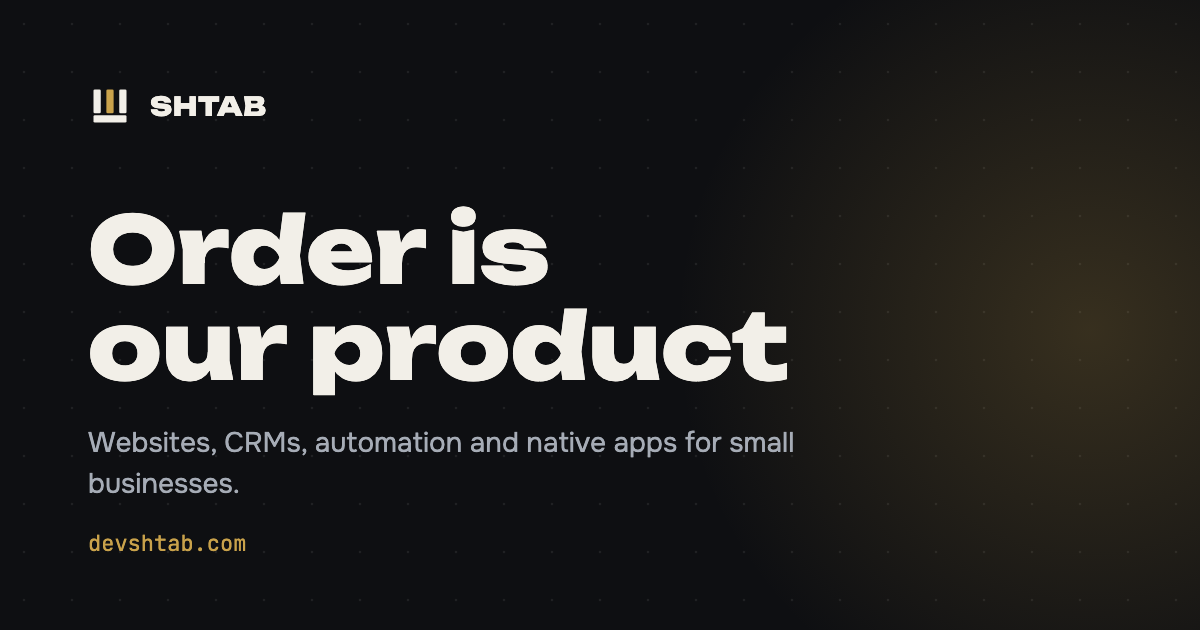
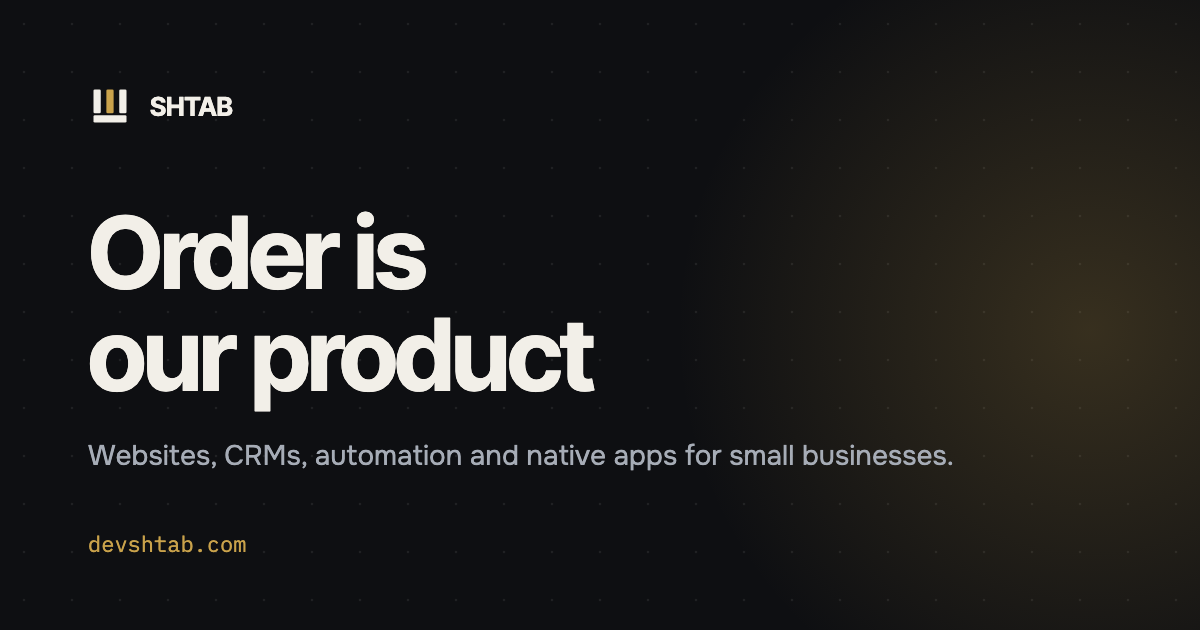
Типографика и визуал по разбору: Inter Tight + Onest + IBM Plex Mono, кейс Znaniye на главной
- Unbounded заменён на Inter Tight с отрицательным трекингом, моно — IBM Plex Mono
- кнопки 8px вместо пилюль, шаги без кружков («01 //»), футер без латунной полосы,
  рамка лампы тише, hover карточек без прыжка, индикатор скролла убран
- Znaniye: настоящие экраны системы (сводка, доска заявок, журнал), кейс на главной
  вместо Lily, Lily остаётся в /work

diff --git a/src/styles/global.css b/src/styles/global.css
@@ -3,9 +3,9 @@
   --ink:#0E0F12; --ink2:#131519; --graphite:#23262B; --line:#2A2D33;
   --ivory:#F2EFE8; --steel:#A6ACB6; --dim:#7B818B; --brass:#C9A24B; --brass-2:#D8B25C;
   --ok:#8FB07A; --new:#8FA3C7; --err:#D98B7A;
-  --font-display:"Unbounded","Onest",system-ui,sans-serif;
+  --font-display:"Inter Tight","Onest",system-ui,sans-serif;
   --font-body:"Onest",system-ui,sans-serif;
-  --font-mono:"JetBrains Mono",ui-monospace,monospace;
+  --font-mono:"IBM Plex Mono",ui-monospace,monospace;
   --z-nav:100;
   --gutter:32px;
   --container:clamp(1160px,64vw,1360px);
@@ -32,12 +32,12 @@ img{display:block;max-width:100%;height:auto}
 main,header,footer{position:relative;z-index:1}
 
 /* ---------- Type ---------- */
-.display{font-family:var(--font-display);font-weight:800;letter-spacing:.005em;line-height:1.08;text-wrap:balance}
+.display{font-family:var(--font-display);font-weight:700;letter-spacing:-.03em;line-height:1.04;text-wrap:balance}
 .section-title{
   font-family:var(--font-display);font-weight:700;
-  font-size:clamp(1.8rem,3.6vw,2.8rem);letter-spacing:.005em;text-wrap:balance;
+  font-size:clamp(1.8rem,3.2vw,2.6rem);letter-spacing:-.025em;line-height:1.12;text-wrap:balance;
 }
-.kicker{font-family:var(--font-mono);font-size:13px;color:var(--brass);letter-spacing:.08em;text-transform:uppercase}
+.kicker{font-family:var(--font-mono);font-size:12px;font-weight:500;color:var(--brass);letter-spacing:.12em;text-transform:uppercase}
 .lead{color:var(--steel);font-size:clamp(17px,2vw,20px);text-wrap:pretty}
 
 /* ---------- Nav ---------- */
@@ -48,7 +48,7 @@ main,header,footer{position:relative;z-index:1}
 .nav.scrolled,.nav.open{background:rgba(14,15,18,.92);border-bottom-color:var(--line);backdrop-filter:blur(10px)}
 .nav-inner{display:flex;justify-content:space-between;align-items:center}
 .nav-logo{display:flex;align-items:center;gap:12px;color:var(--ivory)}
-.nav-logo span{font-family:var(--font-display);font-weight:800;font-size:17px;letter-spacing:.02em}
+.nav-logo span{font-family:var(--font-display);font-weight:700;font-size:17px;letter-spacing:-.01em}
 .nav-logo:hover{text-decoration:none}
 .nav-links{display:flex;align-items:center;gap:clamp(16px,3vw,36px)}
 .nav-links a{color:var(--steel);font-size:15px;font-weight:500;transition:color .2s ease;position:relative}
@@ -57,7 +57,7 @@ main,header,footer{position:relative;z-index:1}
 .nav-links a[aria-current="page"]:not(.nav-cta)::after{content:"";position:absolute;left:0;right:0;bottom:-8px;height:1px;background:var(--brass)}
 .nav-cta{
   color:var(--ink)!important;background:var(--brass);
-  padding:9px 18px;border-radius:999px;font-weight:600;
+  padding:9px 18px;border-radius:8px;font-weight:600;
   transition:transform .16s var(--ease-out),background .2s ease;
 }
 .nav-burger{display:none;width:44px;height:44px;border:0;background:none;cursor:pointer;color:var(--ivory);margin-right:-10px}
@@ -68,7 +68,7 @@ main,header,footer{position:relative;z-index:1}
 
 /* ---------- Buttons ---------- */
 .btn{
-  display:inline-block;padding:14px 28px;border-radius:999px;font-weight:600;font-size:16px;
+  display:inline-block;padding:14px 28px;border-radius:8px;font-weight:600;font-size:16px;
   border:0;cursor:pointer;font-family:inherit;line-height:1.3;
   transition:transform .16s var(--ease-out),background .2s ease,border-color .2s ease;
 }
@@ -95,25 +95,22 @@ main,header,footer{position:relative;z-index:1}
   padding:120px var(--gutter) 80px;position:relative;
 }
 .hero-mark{margin-bottom:40px}
-.hero-title{font-size:clamp(2rem,6.5vw,5.25rem)}
+.hero-title{font-size:clamp(2.4rem,6vw,4.8rem)}
 .hero-title .w{display:inline-block} /* слова для раздельного появления */
 .hero-sub{margin-top:28px;max-width:62ch;text-wrap:balance}
 .hero-actions{margin-top:44px;display:flex;gap:16px;flex-wrap:wrap;justify-content:center}
-.hero-scroll{position:absolute;bottom:32px;left:50%;transform:translateX(-50%);width:1px;height:56px;background:var(--line);overflow:hidden}
-.hero-scroll span{display:block;width:1px;height:20px;background:var(--brass);animation:drip 2s var(--ease-out) infinite}
-@keyframes drip{from{transform:translateY(-24px)}to{transform:translateY(64px)}}
 
 /* page hero (inner pages) */
 .page-hero{padding-top:160px;padding-bottom:56px}
 .page-hero .kicker{margin-bottom:18px;display:block}
-.page-hero h1{font-size:clamp(2rem,4.8vw,3.6rem);max-width:18ch}
+.page-hero h1{font-size:clamp(2rem,4.4vw,3.4rem);max-width:20ch}
 .page-hero .lead{margin-top:24px;max-width:56ch}
 
 /* ---------- Facts ---------- */
 .strip{border-top:1px solid var(--line);border-bottom:1px solid var(--line);background:var(--ink2)}
 .strip-inner{padding-top:56px;padding-bottom:56px;display:grid;grid-template-columns:repeat(auto-fit,minmax(220px,1fr));gap:40px 48px}
 .fact{display:flex;flex-direction:column;gap:8px}
-.fact-num{font-family:var(--font-mono);font-size:clamp(2.4rem,4vw,3.4rem);color:var(--brass);font-variant-numeric:tabular-nums;line-height:1}
+.fact-num{font-family:var(--font-mono);font-size:clamp(2.2rem,3.6vw,3.2rem);color:var(--brass);font-variant-numeric:tabular-nums;line-height:1;letter-spacing:-.02em}
 .fact-num .unit{font-size:.45em;color:var(--steel);margin-left:6px}
 .fact-label{color:var(--steel);font-size:15px;max-width:26ch;text-wrap:pretty}
 
@@ -129,12 +126,12 @@ main,header,footer{position:relative;z-index:1}
 .case-card:hover{text-decoration:none}
 .case-card .cover{aspect-ratio:16/10;overflow:hidden;background:var(--ink);border-bottom:1px solid var(--line)}
 .work-grid .case-card:first-child .cover{aspect-ratio:21/9}
-.case-card .cover img{width:100%;height:100%;object-fit:cover;object-position:top;transition:transform .9s var(--ease-out)}
-.case-card .cover.phone{display:flex;justify-content:center;align-items:flex-end;padding:40px 0 0;background:radial-gradient(60% 80% at 50% 100%,rgba(143,163,122,.18),transparent 70%),var(--ink)}
+.case-card .cover img{width:100%;height:100%;object-fit:cover;object-position:top;transition:transform .8s var(--ease-out)}
+.case-card .cover.phone{display:flex;justify-content:center;align-items:flex-end;padding:40px 0 0;background:radial-gradient(60% 80% at 50% 100%,color-mix(in srgb,var(--accent) 12%,transparent),transparent 70%),var(--ink)}
 .case-card .cover.phone img{width:min(42%,300px);height:auto;border-radius:24px 24px 0 0;border:1px solid var(--line);border-bottom:0;object-fit:unset}
-.case-card:hover .cover img{transform:translateY(-10px) scale(1.02)}
+.case-card:hover .cover img{transform:scale(1.025)}
 .case-card .body{padding:28px 32px 32px;display:flex;flex-direction:column;gap:12px}
-.case-card h3{font-family:var(--font-display);font-weight:700;font-size:clamp(1.15rem,1.6vw,1.5rem);line-height:1.25;letter-spacing:.005em;text-wrap:balance}
+.case-card h3{font-family:var(--font-display);font-weight:600;font-size:clamp(1.2rem,1.5vw,1.45rem);line-height:1.22;letter-spacing:-.015em;text-wrap:balance}
 .case-card p{color:var(--steel);font-size:15.5px;text-wrap:pretty;max-width:60ch}
 .case-card .delta{display:flex;gap:10px;align-items:baseline;font-family:var(--font-mono);font-size:12.5px;color:var(--dim);margin-top:auto;padding-top:10px;flex-wrap:wrap}
 .case-card .delta s{text-decoration-color:rgba(123,129,139,.8)}
@@ -142,35 +139,35 @@ main,header,footer{position:relative;z-index:1}
 
 /* ---------- Work: case page ---------- */
 .case-hero{padding-top:150px;padding-bottom:48px}
-.case-hero h1{font-size:clamp(2rem,4.8vw,3.8rem);max-width:20ch}
+.case-hero h1{font-size:clamp(2rem,4.4vw,3.6rem);max-width:22ch}
 .case-hero .delta{margin-top:28px;display:flex;gap:12px;align-items:baseline;font-family:var(--font-mono);font-size:14px;color:var(--dim);flex-wrap:wrap}
 .case-hero .delta s{text-decoration-color:rgba(123,129,139,.8)}
 .case-hero .delta span,.case-hero .delta b{color:var(--brass);font-weight:400}
 .case-cover{border-radius:18px;overflow:hidden;border:1px solid var(--line);background:var(--ink2);margin-top:48px}
 .case-cover img{width:100%;aspect-ratio:21/9;object-fit:cover;object-position:top}
-.case-cover.phone img{aspect-ratio:21/9;object-fit:contain;padding:48px 0 0;object-position:center bottom;background:radial-gradient(50% 70% at 50% 100%,rgba(143,163,122,.2),transparent 70%)}
+.case-cover.phone img{aspect-ratio:21/9;object-fit:contain;padding:48px 0 0;object-position:center bottom;background:radial-gradient(50% 70% at 50% 100%,rgba(201,162,75,.08),transparent 70%)}
 .case-metrics{display:grid;grid-template-columns:repeat(auto-fit,minmax(200px,1fr));gap:32px;padding:48px 0;border-top:1px solid var(--line);border-bottom:1px solid var(--line);margin-top:56px}
 .case-layout{display:grid;grid-template-columns:minmax(0,1fr) 280px;gap:clamp(40px,6vw,96px);padding-top:72px;padding-bottom:40px;align-items:start}
 .case-meta{position:sticky;top:110px;display:flex;flex-direction:column;gap:28px;font-size:14.5px}
 .case-meta dt{font-family:var(--font-mono);font-size:12px;letter-spacing:.08em;text-transform:uppercase;color:var(--dim);margin-bottom:8px}
 .case-meta dd{color:var(--steel)}
 .case-meta .tags{display:flex;flex-wrap:wrap;gap:8px}
-.case-meta .tags span{border:1px solid var(--line);border-radius:999px;padding:4px 11px;font-size:13px;color:var(--steel)}
+.case-meta .tags span{border:1px solid var(--line);border-radius:6px;padding:4px 10px;font-size:13px;color:var(--steel)}
 .case-meta .nda{color:var(--dim);font-size:13.5px;border-left:1px solid var(--brass);padding-left:14px}
-.prose h2{font-family:var(--font-display);font-weight:700;font-size:clamp(1.3rem,2.2vw,1.7rem);letter-spacing:.005em;margin:48px 0 18px;text-wrap:balance}
+.prose h2{font-family:var(--font-display);font-weight:600;font-size:clamp(1.3rem,2vw,1.6rem);letter-spacing:-.02em;margin:48px 0 18px;text-wrap:balance}
 .prose h2:first-child{margin-top:0}
 .prose p{color:var(--steel);max-width:62ch;text-wrap:pretty;margin-bottom:18px}
 .prose strong{color:var(--ivory);font-weight:600}
 .prose ul{margin:0 0 18px 20px;color:var(--steel)}
 .screens{display:grid;grid-template-columns:1fr 1fr;gap:24px;padding-top:40px;padding-bottom:96px}
 .screens figure{border-radius:16px;overflow:hidden;border:1px solid var(--line);background:var(--ink2)}
-.screens figure.phone{background:radial-gradient(60% 70% at 50% 100%,rgba(143,163,122,.16),transparent 70%),var(--ink2);padding:40px 40px 0;display:flex;justify-content:center}
+.screens figure.phone{background:radial-gradient(60% 70% at 50% 100%,rgba(201,162,75,.07),transparent 70%),var(--ink2);padding:40px 40px 0;display:flex;justify-content:center}
 .screens figure.phone img{width:min(100%,280px);border-radius:24px 24px 0 0;border:1px solid var(--line);border-bottom:0}
 .screens.phones{grid-template-columns:repeat(3,1fr)}
 .case-next{border-top:1px solid var(--line);padding-top:72px;padding-bottom:96px}
 .case-next .kicker{display:block;margin-bottom:14px}
 .case-next a{color:var(--ivory)}
-.case-next h2{font-size:clamp(1.6rem,3.4vw,2.6rem);max-width:22ch}
+.case-next h2{font-size:clamp(1.6rem,3.2vw,2.5rem);max-width:24ch}
 
 /* ---------- Services (pinned scroll) ---------- */
 .services{position:relative}
@@ -188,8 +185,8 @@ main,header,footer{position:relative;z-index:1}
   flex:0 0 clamp(340px,32vw,480px);min-height:380px;background:var(--ink2);display:flex;flex-direction:column;
   border:1px solid var(--line);border-radius:18px;padding:40px 40px 44px;transform-origin:left center;
 }
-.service-num{font-family:var(--font-mono);font-size:13px;color:var(--brass);letter-spacing:.1em}
-.service h3{font-family:var(--font-display);font-weight:700;font-size:clamp(1.35rem,1.6vw,1.6rem);margin:18px 0 14px;letter-spacing:.005em}
+.service-num{font-family:var(--font-mono);font-size:12px;font-weight:500;color:var(--brass);letter-spacing:.12em}
+.service h3{font-family:var(--font-display);font-weight:600;font-size:clamp(1.3rem,1.5vw,1.5rem);margin:18px 0 14px;letter-spacing:-.02em}
 .service p{color:var(--steel);font-size:15.5px;text-wrap:pretty}
 .service ul{list-style:none;margin-top:auto;padding-top:24px;border-top:1px solid var(--line);display:flex;flex-direction:column;gap:8px}
 .service li{font-size:14px;color:var(--steel);padding-left:18px;position:relative}
@@ -205,8 +202,8 @@ main,header,footer{position:relative;z-index:1}
 /* services page: packages */
 .packages{display:grid;grid-template-columns:repeat(auto-fit,minmax(300px,1fr));gap:24px;padding-top:40px;padding-bottom:96px}
 .package{background:var(--ink2);border:1px solid var(--line);border-radius:18px;padding:36px 36px 40px;display:flex;flex-direction:column;gap:14px}
-.package h3{font-family:var(--font-display);font-weight:700;font-size:1.35rem;letter-spacing:.005em}
-.package .term{font-family:var(--font-mono);font-size:13px;color:var(--brass)}
+.package h3{font-family:var(--font-display);font-weight:600;font-size:1.35rem;letter-spacing:-.02em}
+.package .term{font-family:var(--font-mono);font-size:12px;font-weight:500;color:var(--brass);letter-spacing:.06em}
 .package p{color:var(--steel);font-size:15.5px;text-wrap:pretty}
 .package ul{list-style:none;display:flex;flex-direction:column;gap:8px;padding-top:18px;border-top:1px solid var(--line);margin-top:auto}
 .package li{font-size:14.5px;color:var(--steel);padding-left:18px;position:relative}
@@ -217,23 +214,24 @@ main,header,footer{position:relative;z-index:1}
 .process .section-title{margin-bottom:64px}
 .steps{list-style:none;display:grid;grid-template-columns:repeat(auto-fit,minmax(240px,1fr));gap:0;margin-left:-29px}
 .step{padding:8px 32px 8px 28px;border-left:1px solid var(--line)}
-.step-num{display:inline-flex;width:34px;height:34px;border-radius:50%;border:1px solid var(--brass);color:var(--brass);align-items:center;justify-content:center;font-family:var(--font-mono);font-size:14px;margin-bottom:20px}
-.step h3{font-family:var(--font-display);font-weight:700;font-size:1.1rem;margin-bottom:12px;letter-spacing:.005em}
+.step-num{display:block;color:var(--brass);font-family:var(--font-mono);font-size:12px;font-weight:500;letter-spacing:.12em;margin-bottom:16px}
+.step-num::after{content:" //";color:var(--dim)}
+.step h3{font-family:var(--font-display);font-weight:600;font-size:1.15rem;margin-bottom:12px;letter-spacing:-.015em}
 .step p{color:var(--steel);font-size:15px;text-wrap:pretty}
 
 /* ---------- About ---------- */
 .about-grid{display:grid;grid-template-columns:1fr 1fr;gap:clamp(40px,6vw,96px);padding-top:56px;padding-bottom:96px;align-items:start}
 .principles{list-style:none;display:flex;flex-direction:column}
 .principles li{padding:24px 0;border-top:1px solid var(--line)}
-.principles h3{font-family:var(--font-display);font-weight:700;font-size:1.1rem;margin-bottom:8px;letter-spacing:.005em}
+.principles h3{font-family:var(--font-display);font-weight:600;font-size:1.15rem;margin-bottom:8px;letter-spacing:-.015em}
 .principles p{color:var(--steel);font-size:15.5px;text-wrap:pretty}
 .stack-cloud{display:flex;flex-wrap:wrap;gap:10px;margin-top:24px}
-.stack-cloud span{border:1px solid var(--line);border-radius:999px;padding:6px 14px;font-size:14px;color:var(--steel)}
+.stack-cloud span{border:1px solid var(--line);border-radius:6px;padding:6px 12px;font-size:14px;color:var(--steel)}
 
 /* ---------- CTA + lead form ---------- */
 .cta{padding:140px 0;border-top:1px solid var(--line);background:var(--ink2)}
 .cta-inner{display:grid;grid-template-columns:1fr minmax(0,480px);gap:clamp(40px,6vw,96px);align-items:start}
-.cta h2{font-family:var(--font-display);font-weight:800;font-size:clamp(1.9rem,4.5vw,3.2rem);letter-spacing:.005em;line-height:1.12;text-wrap:balance;max-width:14ch}
+.cta h2{font-family:var(--font-display);font-weight:700;font-size:clamp(1.9rem,4vw,3rem);letter-spacing:-.03em;line-height:1.08;text-wrap:balance;max-width:16ch}
 .cta-text p{color:var(--steel);margin-top:24px;max-width:40ch;font-size:18px;text-wrap:pretty}
 .cta-text .cta-mail{font-size:15px;color:var(--dim)}
 .cta-text .channels{display:flex;flex-direction:column;gap:10px;margin-top:28px;font-size:15px}
@@ -245,7 +243,7 @@ main,header,footer{position:relative;z-index:1}
 .field label{font-size:14px;font-weight:500;color:var(--steel)}
 .field .optional{color:var(--dim);font-weight:400}
 .field input,.field textarea{
-  width:100%;background:var(--ink2);color:var(--ivory);border:1px solid var(--line);border-radius:10px;padding:13px 15px;
+  width:100%;background:var(--ink2);color:var(--ivory);border:1px solid var(--line);border-radius:8px;padding:13px 15px;
   font:inherit;font-size:16px;resize:vertical;transition:border-color .15s ease;
 }
 .field textarea{min-height:112px}
@@ -265,7 +263,7 @@ main,header,footer{position:relative;z-index:1}
 .lead-form.sent .lead-status{font-size:18px;padding:24px 0}
 
 /* ---------- Footer ---------- */
-.footer{border-top:2px solid var(--brass);background:var(--ink)}
+.footer{border-top:1px solid var(--line);background:var(--ink)}
 .footer-inner{padding-top:48px;padding-bottom:48px;display:grid;grid-template-columns:1fr auto auto;gap:24px 48px;align-items:center}
 .footer-inner p,.footer-inner a{color:var(--dim);font-size:14px}
 .footer-inner a:hover{color:var(--ivory);text-decoration:none}
@@ -278,7 +276,7 @@ main,header,footer{position:relative;z-index:1}
 .lamp::before{z-index:-1;background:radial-gradient(320px circle at var(--mx,50%) var(--my,50%),rgba(201,162,75,.10),transparent 70%)}
 .lamp::after{
   inset:-1px;padding:1px;
-  background:radial-gradient(240px circle at var(--mx,50%) var(--my,50%),rgba(201,162,75,.7),transparent 70%);
+  background:radial-gradient(240px circle at var(--mx,50%) var(--my,50%),rgba(201,162,75,.4),transparent 70%);
   -webkit-mask:linear-gradient(#000 0 0) content-box,linear-gradient(#000 0 0);
   -webkit-mask-composite:xor;mask-composite:exclude;
 }
@@ -309,7 +307,7 @@ main,header,footer{position:relative;z-index:1}
     display:none;position:fixed;inset:0;top:0;flex-direction:column;justify-content:center;align-items:center;gap:28px;
     background:rgba(14,15,18,.96);z-index:-1;
   }
-  .nav-links a{font-family:var(--font-display);font-size:1.4rem;font-weight:700;color:var(--ivory)}
+  .nav-links a{font-family:var(--font-display);font-size:1.6rem;font-weight:600;letter-spacing:-.02em;color:var(--ivory)}
   .nav-links .nav-cta{font-family:var(--font-body);font-size:16px;padding:12px 24px;margin-top:12px}
   .nav.open .nav-links{display:flex}
   .nav-burger{display:block}
@@ -343,7 +341,6 @@ main,header,footer{position:relative;z-index:1}
 /* ---------- Reduced motion: colour and opacity stay, movement goes ---------- */
 @media (prefers-reduced-motion:reduce){
   html{scroll-behavior:auto}
-  .hero-scroll span{animation:none}
   .btn,.nav-cta{transition-property:background,border-color}
   .btn:hover,.btn:active,.nav-cta:hover,.nav-cta:active{transform:none}
   .lamp::before,.lamp::after{display:none}

diff --git a/src/content/work/school-crm.md b/src/content/work/school-crm.md
@@ -1,12 +1,12 @@
 ---
 title: "One system for a school with four branches"
-kicker: "Education · CRM"
-summary: "350 students, four branches, paper forms and ten-day queues — replaced with a three-minute application and one screen for the director."
-client: "Saturday school network, London"
+kicker: "Znaniye · school CRM"
+summary: "350 students, four branches, paper forms and ten-day queues — replaced with a three-minute application, a phone-first register and one screen for the director."
+client: "Znaniye Russian School, London"
 year: 2026
-order: 4
+order: 2
 accent: "#8FA3C7"
-stack: ["Django", "PostgreSQL", "Email automation"]
+stack: ["Django", "PostgreSQL", "Email automation", "Railway"]
 role: ["Research", "Process design", "Development"]
 metrics:
   - { value: "350", label: "students tracked in one system" }
@@ -14,23 +14,26 @@ metrics:
   - { value: "3", label: "minutes to file an application, down from 10 days" }
 before: "paper form · 10 days"
 after: "application in 3 minutes"
-cover: "/img/work/school-crm/cover.svg"
-screens: []
-nda: "The school's name and demo aren't public at the client's request — we'll show them on a call."
+cover: "/img/work/school-crm/dashboard.webp"
+screens:
+  - { src: "/img/work/school-crm/crm.webp", alt: "Admissions board: new → contacted → trial day → enrolled" }
+  - { src: "/img/work/school-crm/dashboard.webp", alt: "Director's summary: students, attendance, registers, applications by branch" }
+  - { src: "/img/work/school-crm/register.webp", alt: "Attendance register on a phone: big buttons for the teacher", phone: true }
+nda: "Screens show the demo stand with fictional families; real data stays behind the login."
 ---
 
 ## The task
 
-A Saturday school with 350 students and four branches ran on paper: application forms, exam lists, attendance registers. An application took up to ten days to process, and the director had no single picture of the school.
+Znaniye is a Russian Saturday school in London: four branches, 350 students every weekend, an accredited Pearson Edexcel exam centre. It ran on paper: application forms, exam lists, attendance registers. An application took up to ten days to process, and the director had no single picture of the school.
 
 ## What we built
 
-**Admissions in three minutes.** A parent fills in a form online, gets an automatic email and a family number. The office sees the application instantly and moves it through the stages: new → contacted → trial day → enrolled.
+**Admissions in three minutes.** A parent fills in a form online, gets an automatic email and a family number. The office sees the application on a board and moves it through the stages: new → contacted → trial day → enrolled. Tasks and responsible staff live on the same board.
 
-**Attendance from the phone.** Teachers mark attendance on a screen built for a corridor: big buttons, allergies and parents' phone numbers at hand.
+**A register that works in a corridor.** Teachers mark attendance from the phone: big buttons, allergies and parents' numbers at hand, a note when the lesson is over and the register is read-only.
 
-**One screen for the director.** Branches, groups, finances and compliance in a single view, with exports for the accountant.
+**One screen for the director.** Students, attendance, filled registers and applications in work — for the whole school or per branch, with CSV exports for the accountant. Safeguarding data, exam cohorts and notifications are in the same system.
 
 ## Result
 
-Ten days became three minutes. Four branches work in one system, and the director runs the school from one screen instead of four folders.
+Ten days became three minutes. Four branches work in one system, and the director runs the school from one screen instead of four folders. The system is in alpha with the school; the finance module is next.

diff --git a/src/content/work/lily.md b/src/content/work/lily.md
@@ -4,7 +4,7 @@ kicker: "Lily · consumer app"
 summary: "Couples save places, films, trips and dates in one quiet app. Share a reel or a screenshot — Lily recognises what it is."
 client: "SHTAB product"
 year: 2026
-order: 2
+order: 4
 accent: "#8FA37A"
 stack: ["SwiftUI", "iOS 18", "Kotlin · Compose", "Bun · Hono", "Postgres", "StoreKit 2", "Railway"]
 role: ["Product", "Design", "iOS", "Android", "Backend"]
